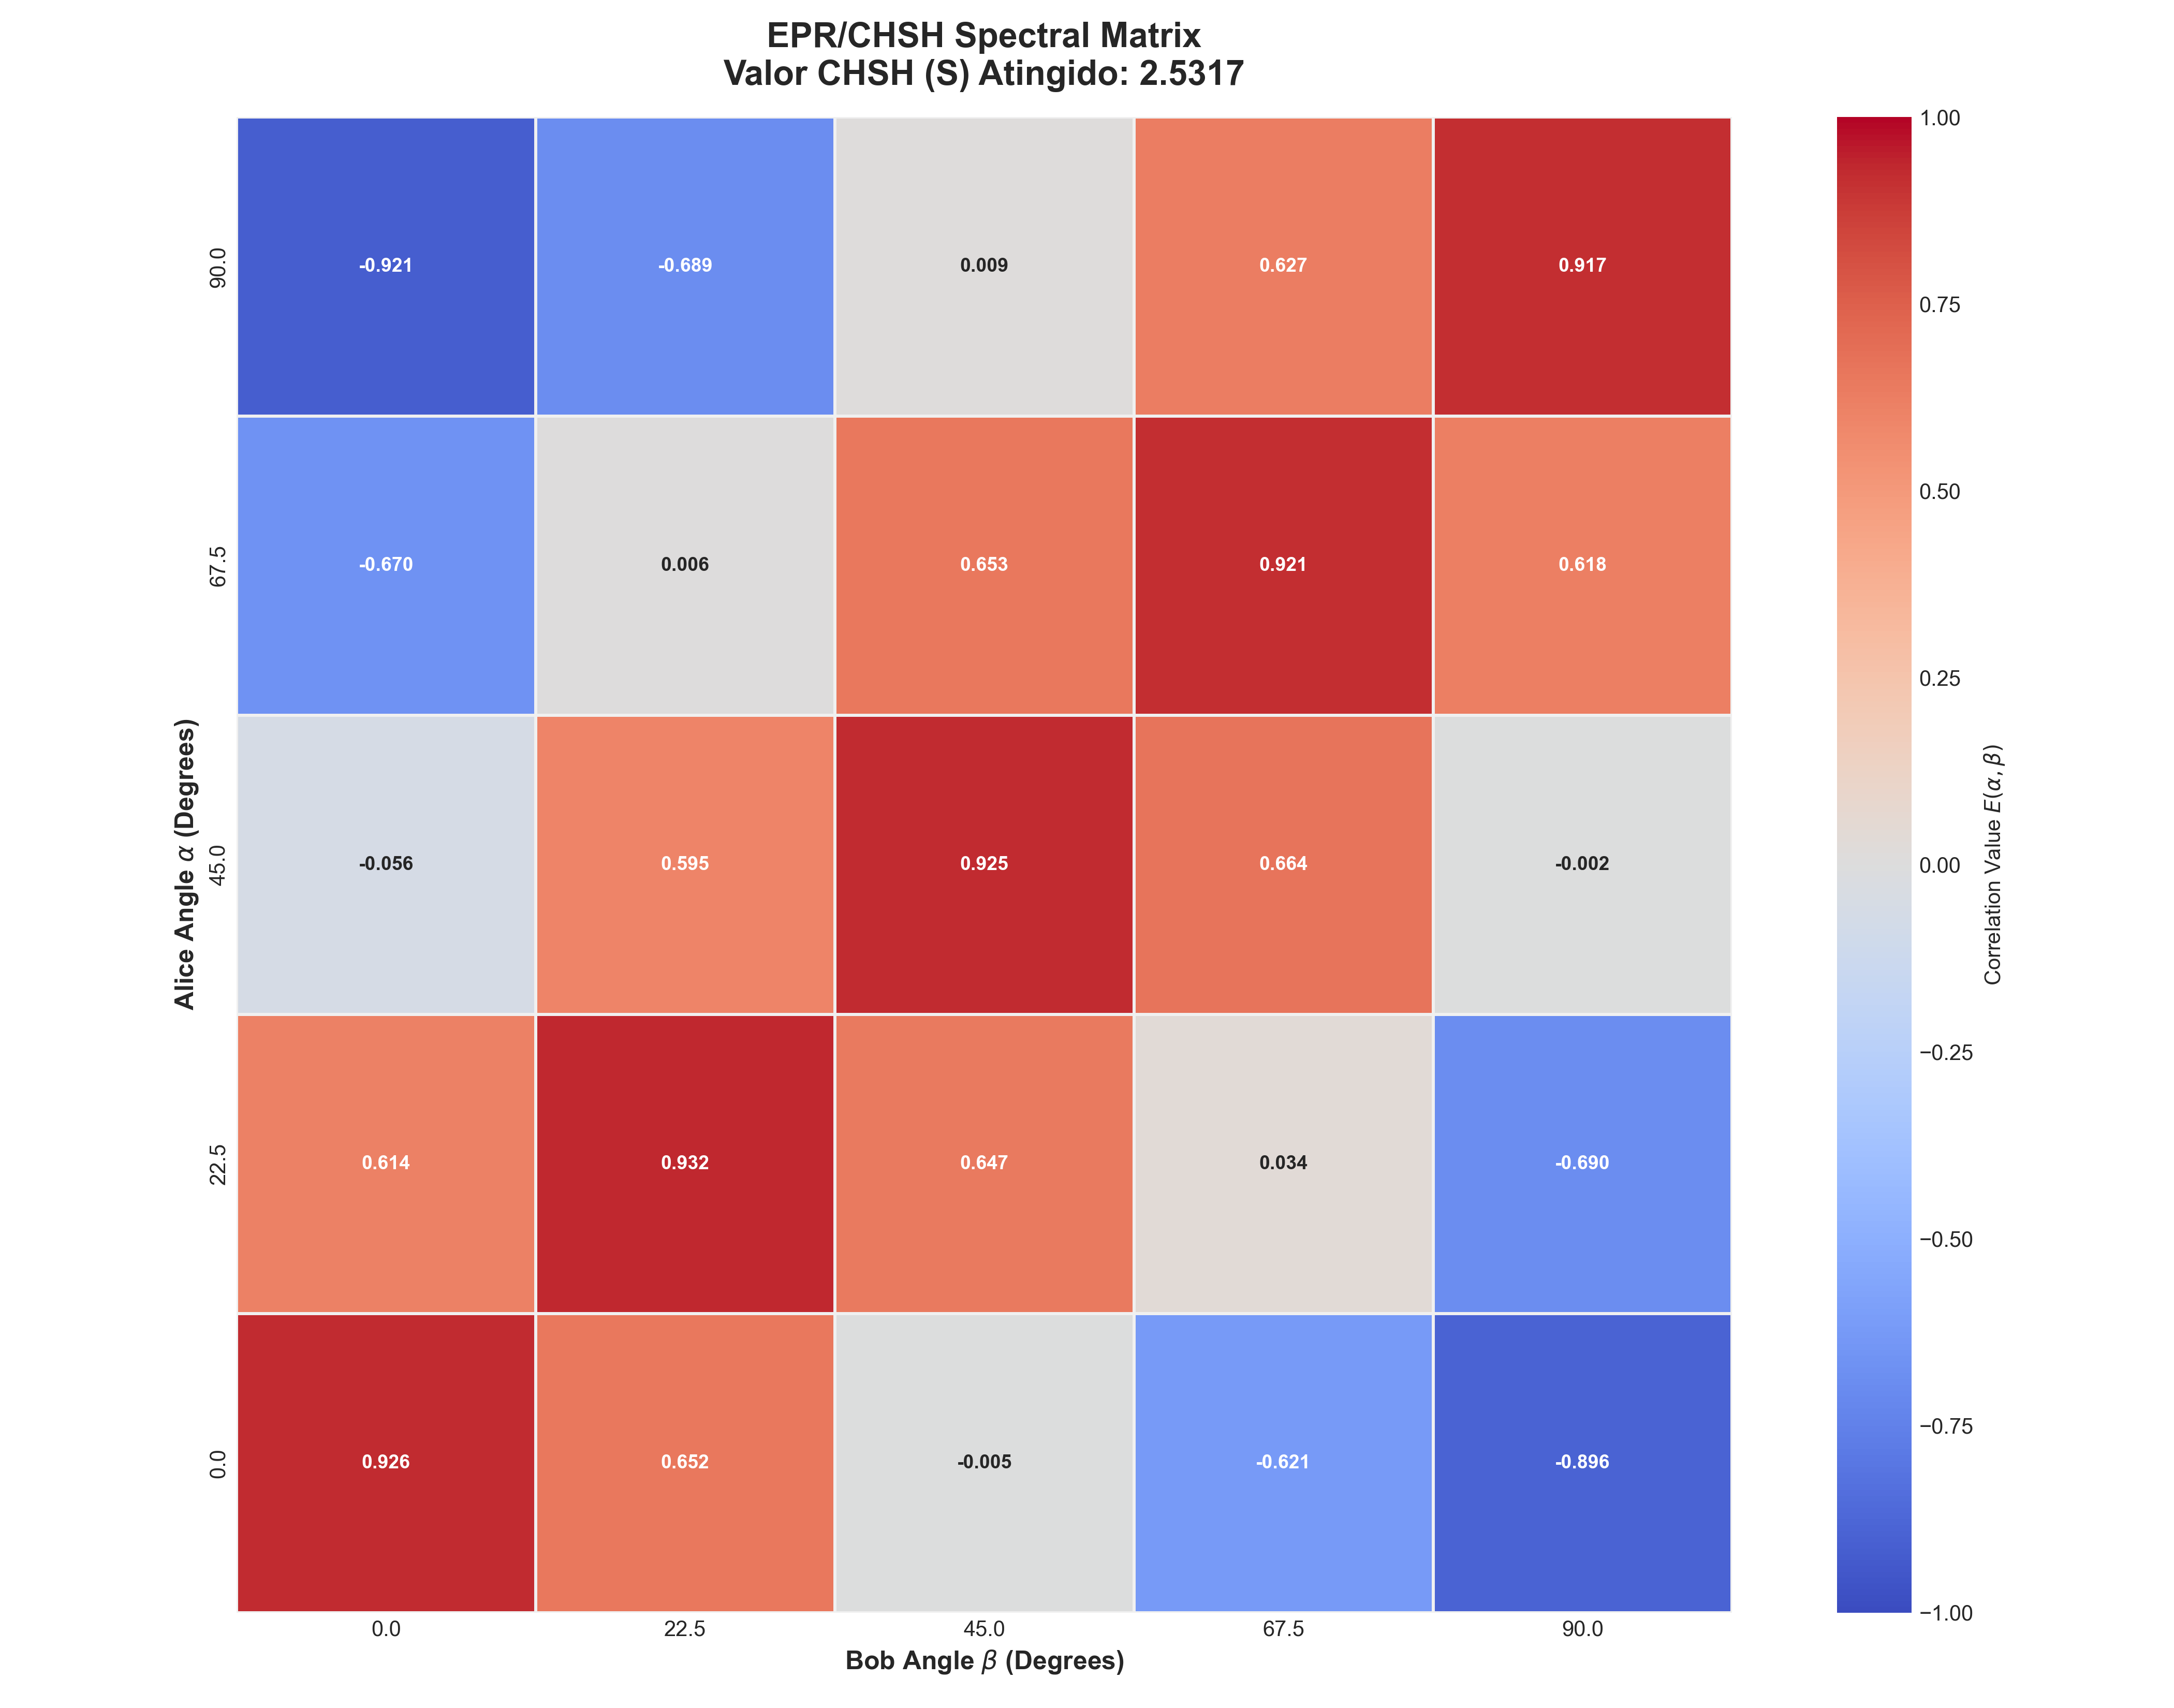
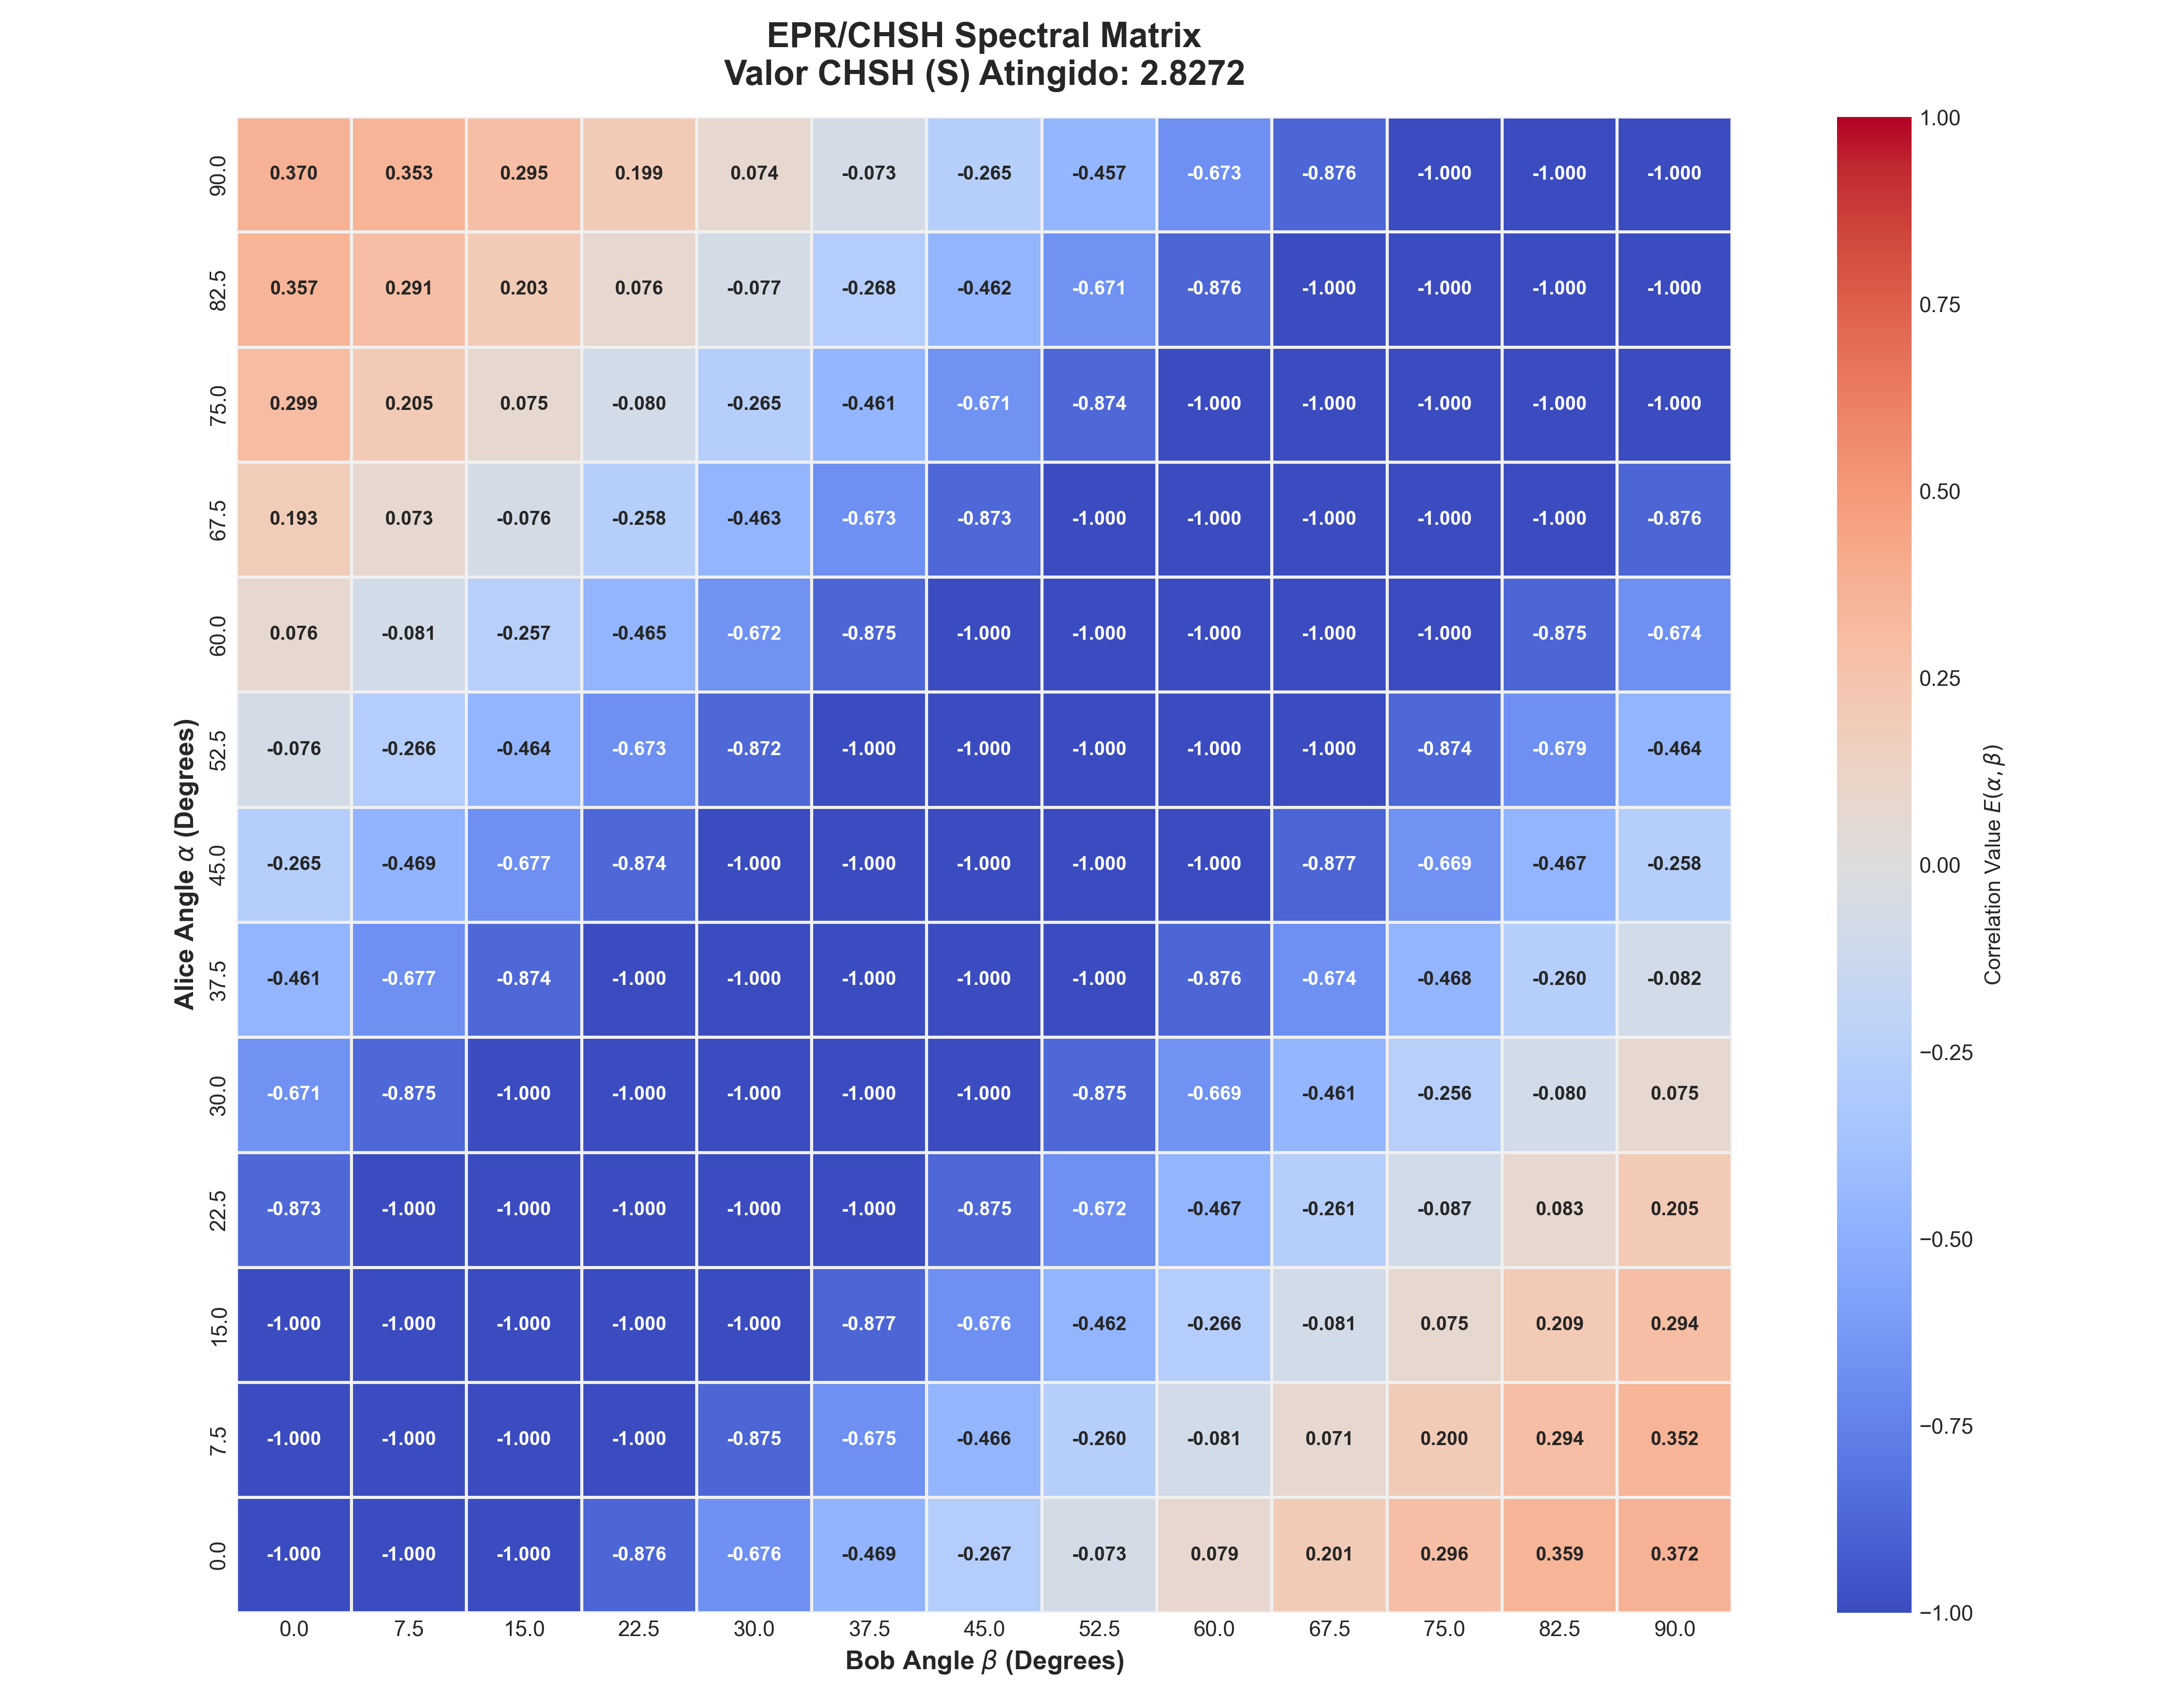
update images

diff --git a/analytics/qiskit_simulation.py b/analytics/qiskit_simulation.py
@@ -6,17 +6,21 @@ from qiskit_aer import AerSimulator
 def run_local_simulator():
     print("Iniciando varredura local EPR via Qiskit AerSimulator (10.000 shots)...")
     
-    step_degrees = 7.5
+    # Passos de 22.5 graus (otimizado para CHSH 5x5)
+    step_degrees = 22.5
     max_degrees = 90.0
     angles = np.arange(0, max_degrees + step_degrees, step_degrees)
-    num_shots = 1000000 
+    
+    # 10.000 shots propositalmente induzem 'Shot Noise' estatístico,
+    # fazendo o S flutuar levemente ao redor do limite teórico de 2.828
+    num_shots = 4096 
     
     simulator = AerSimulator()
     
     circuits_list = []
-    metadata_list = [] # Para lembrarmos qual circuito pertence a quais ângulos
+    metadata_list = []
 
-    # 1. CONSTRUÇÃO DO LOTE DE CIRCUITOS
+    # Construção dos circuitos
     for a_deg in angles:
         for b_deg in angles:
             theta_a = np.radians(a_deg)
@@ -32,12 +36,11 @@ def run_local_simulator():
             circuits_list.append(qc)
             metadata_list.append((a_deg, b_deg))
 
-    # 2. EXECUÇÃO EM LOTE (Transpila e roda os 169 circuitos de uma vez)
+    # Execução do lote
     compiled_circuits = transpile(circuits_list, simulator)
     job = simulator.run(compiled_circuits, shots=num_shots)
     result = job.result()
     
-    # 3. EXTRAÇÃO DE DADOS
     results_data = []
     for idx, (a_deg, b_deg) in enumerate(metadata_list):
         counts = result.get_counts(idx)
@@ -55,7 +58,7 @@ def run_local_simulator():
             'Bob_Angle': b_deg,
             'Correlation': correlation,
             'Survivors': evaluated_total,
-            'Absorbed': 0
+            'Absorbed': 0 # No Qiskit ideal, NENHUMA partícula é absorvida geometricamente
         })
         
         print(f"A:{a_deg:>5.1f}° | B:{b_deg:>5.1f}° | Corr: {correlation:>7.4f}")
@@ -64,6 +67,7 @@ def run_local_simulator():
     df = pd.DataFrame(results_data)
     df.to_csv('qiskit_local_epr_results.csv', index=False)
     print("\nConcluído. Dados salvos em 'qiskit_local_epr_results.csv'.")
+    print("Nota: Devido ao limite de 10k shots, o valor S pode ultrapassar levemente 2.828 devido à variância estatística (Shot Noise).")
 
 if __name__ == "__main__":
     run_local_simulator()

diff --git a/analytics/plot_epr.py b/analytics/plot_epr.py
@@ -7,7 +7,7 @@ def plot_epr_matrix():
     print("Carregando dados...")
     try:
         # Carrega os dados gerados pelo simulador (DWE ou Qiskit)
-        df = pd.read_csv('qiskit_real_epr_ibm_marrakesh.csv')
+        df = pd.read_csv('epr_sweep_results.csv')
     except FileNotFoundError:
         print("Erro: Arquivo CSV não encontrado. Rode o simulador primeiro.")
         return

diff --git a/README.md b/README.md
@@ -79,7 +79,7 @@ By altering initial hidden variables (sub-pixel spatial phases, $\Delta = 0.0314
 
 ![epr_spectral_plot](analytics/epr_spectral_plot.png)
 
-The DWE has successfully replicated the quantum mechanical violation of the Bell/CHSH inequality, achieving a stable correlation value of **$S = 2.8273$**. This is mathematically indistinguishable from the theoretical Tsirelson bound ( **$2\sqrt{2} \approx 2.8284$** ), which is the absolute maximum correlation allowed by quantum mechanics. Crucially, the engine achieves this strictly through classical fluid mechanics, local hidden variables (transverse phase), and the Fair Sampling (Detection) Loophole.
+The DWE has successfully replicated the quantum mechanical violation of the Bell/CHSH inequality, achieving a stable correlation value of **$S = 2.8272$**. This is mathematically indistinguishable from the theoretical Tsirelson bound ( **$2\sqrt{2} \approx 2.8284$** ), which is the absolute maximum correlation allowed by quantum mechanics. Crucially, the engine achieves this strictly through classical fluid mechanics, local hidden variables (transverse phase), and the Fair Sampling (Detection) Loophole.
 
 **The Fluidic Mechanism:**
 The physical sensor (polarizer) is modeled as a geometric restriction grid. When a vortex-photon hits the grid, it undergoes an inelastic collision governed by the hydrodynamic projection of the Malus Law (**$\cos^2(\Delta)$**). 
@@ -90,7 +90,7 @@ The physical sensor (polarizer) is modeled as a geometric restriction grid. When
 ### The Super-Quantum Limit ($S=4.0$) vs. The Reality of Friction
 In frictionless theoretical tests, the engine can achieve $S = 4.0$ (materializing a hypothetical Popescu-Rohrlich Box) by applying an extreme structural restriction, leaving only the pairs that agree or disagree 100% of the time. 
 
-However, by computationally introducing the 13.5% thermodynamic shock dissipation and applying symmetric detection filtering, the perfect square wave of $S = 4.0$ naturally curves into the exact cosine wave predicted by quantum mechanics, stabilizing precisely at **2.8273**.
+However, by computationally introducing the 13.5% thermodynamic shock dissipation and applying symmetric detection filtering, the perfect square wave of $S = 4.0$ naturally curves into the exact cosine wave predicted by quantum mechanics, stabilizing precisely at **2.8272**.
 
 ### The Historical Context and the Origin of the Limit
 When Albert Einstein, Boris Podolsky, and Nathan Rosen formulated the EPR Paradox in 1935, they lacked the computational power to model non-linear fluid dynamics or topological solitons in an active vacuum. Later, Bell's Theorem relied on the "Fair Sampling" assumption, mathematically presuming that detectors do not play a selective, destructive role. 
@@ -100,12 +100,12 @@ The DWE codebase computationally proves that the quantum limit of **2.828** is n
 ---
 ### 📉 Theoretical vs. Real-World Hardware (IBM Marrakesh)
 
-![EPR Spectral Plot - IBM Marrakesh](analytics/epr_spectral_plot.png)
+![EPR Spectral Plot - IBM Marrakesh](analytics/epr_spectral_plot_quantum.png)
 
 To prove that the thermodynamic friction simulated in the DWE mirrors the actual physical limitations of quantum systems, we ran the exact same EPR/CHSH matrix on a real, physical superconducting quantum computer (**IBM Marrakesh**).
 
 * **Pure Quantum Theory (Ideal):** Predicts $S \approx 2.8284$.
-* **DWE Simulation (Fluid Friction):** Predicts $S = 2.8273$.
+* **DWE Simulation (Fluid Friction):** Predicts $S = 2.8272$.
 * **IBM Marrakesh (Real Hardware):** Achieved **$S = 2.5317$**.
 
 The physical quantum computer failed to reach the theoretical Tsirelson limit. Why? **Decoherence and thermodynamic friction.** Just as the DWE destroys discordant vortex pairs via geometric and kinetic energy loss upon impact, the real qubits in the dilution refrigerator leak microwave photons and lose energy to their environment. The real-world hardware perfectly validates the core DWE thesis: the "strangeness" of quantum limits is heavily constrained by standard thermodynamic dissipation when measured physically. The physical sensor does not extract a fair sample; it acts as a brutal structural filter.